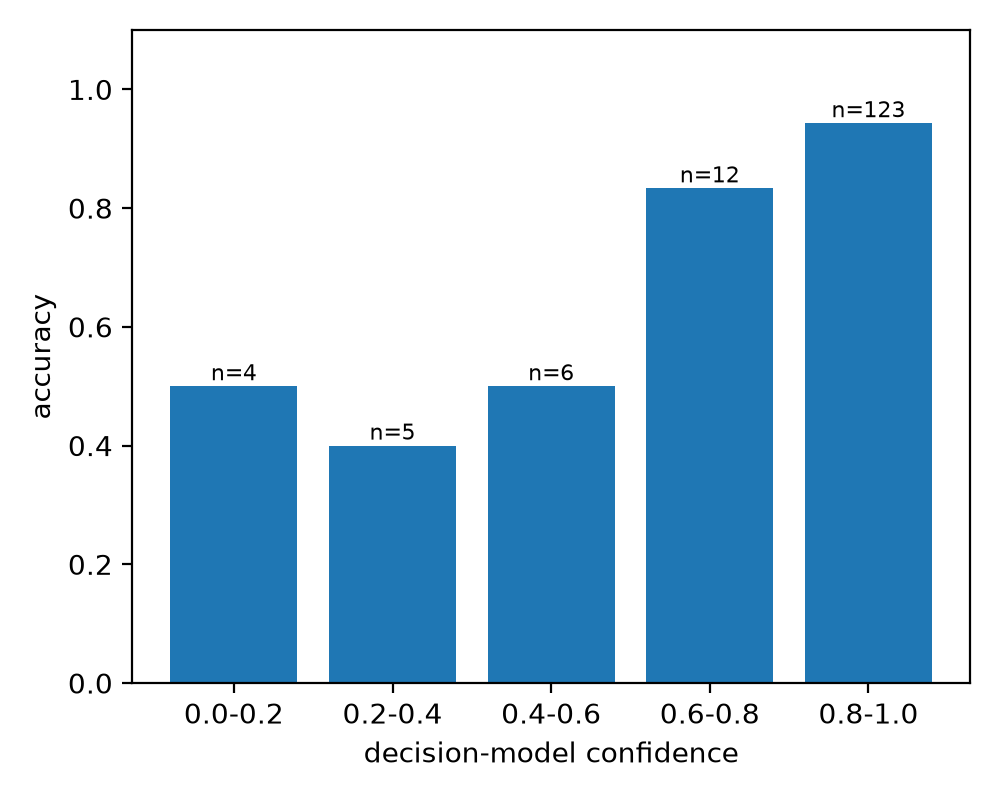
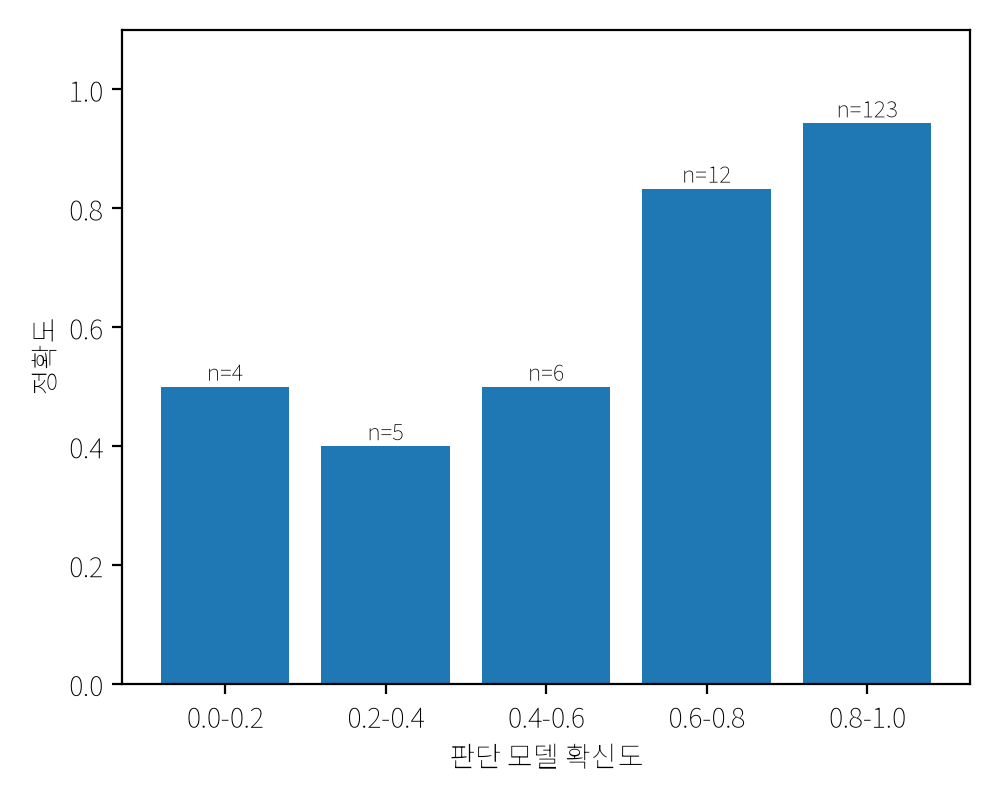
chore: label evaluation figures in Korean

diff --git a/backend/scripts/run_eval.py b/backend/scripts/run_eval.py
@@ -391,6 +391,14 @@ def analyze(args) -> None:
     print((run_dir / "summary.md").read_text())
 
 
+COST_LABEL = {
+    "(a) judgment: hybrid": "(a) 판단: 하이브리드",
+    "(a) judgment: LLM only": "(a) 판단: LLM 단독",
+    "(b) evidence (every answer opened)": "(b) 근거 찾기 (모든 답안을 열 때)",
+    "(c) hybrid total": "(c) 하이브리드 합계",
+}
+
+
 def plot(run_dir: Path, curve: list[dict], calib: list[dict], cost: dict) -> None:
     try:
         import matplotlib
@@ -401,12 +409,16 @@ def plot(run_dir: Path, curve: list[dict], calib: list[dict], cost: dict) -> Non
         print("matplotlib not installed: skipped figures (uv add --dev matplotlib)")
         return
 
+    # Korean labels for the report: first installed font wins
+    plt.rcParams["font.family"] = ["Noto Sans KR", "Apple SD Gothic Neo", "Malgun Gothic", "NanumGothic", "sans-serif"]
+    plt.rcParams["axes.unicode_minus"] = False
+
     fig, ax = plt.subplots(figsize=(6, 4))
     ts = [r["threshold"] for r in curve]
-    ax.plot(ts, [r["auto_rate"] for r in curve], label="auto-handled rate")
-    ax.plot(ts, [r["acc_covered"] or 0 for r in curve], label="accuracy (covered)")
-    ax.plot(ts, [r["coverage"] for r in curve], label="coverage", linestyle="--")
-    ax.set_xlabel("confidence threshold")
+    ax.plot(ts, [r["auto_rate"] for r in curve], label="자동 처리율")
+    ax.plot(ts, [r["acc_covered"] or 0 for r in curve], label="정확도 (추천이 나온 칸)")
+    ax.plot(ts, [r["coverage"] for r in curve], label="추천 범위", linestyle="--")
+    ax.set_xlabel("확신 임계값")
     ax.set_ylim(0, 1.02)
     ax.legend()
     fig.tight_layout()
@@ -417,15 +429,15 @@ def plot(run_dir: Path, curve: list[dict], calib: list[dict], cost: dict) -> Non
     ax.bar([r["conf_bin"] for r in filled], [r["acc"] for r in filled])
     for i, r in enumerate(filled):
         ax.text(i, r["acc"] + 0.01, f"n={r['cells']}", ha="center", fontsize=8)
-    ax.set_xlabel("decision-model confidence")
-    ax.set_ylabel("accuracy")
+    ax.set_xlabel("판단 모델 확신도")
+    ax.set_ylabel("정확도")
     ax.set_ylim(0, 1.1)
     fig.tight_layout()
     fig.savefig(run_dir / "fig_calibration.png", dpi=200)
 
     fig, ax = plt.subplots(figsize=(6, 3))
-    ax.barh(list(cost), list(cost.values()))
-    ax.set_xlabel("USD (whole set)")
+    ax.barh([COST_LABEL.get(k, k) for k in cost], list(cost.values()))
+    ax.set_xlabel("USD (평가셋 전체)")
     fig.tight_layout()
     fig.savefig(run_dir / "fig_cost.png", dpi=200)
     plt.close("all")
